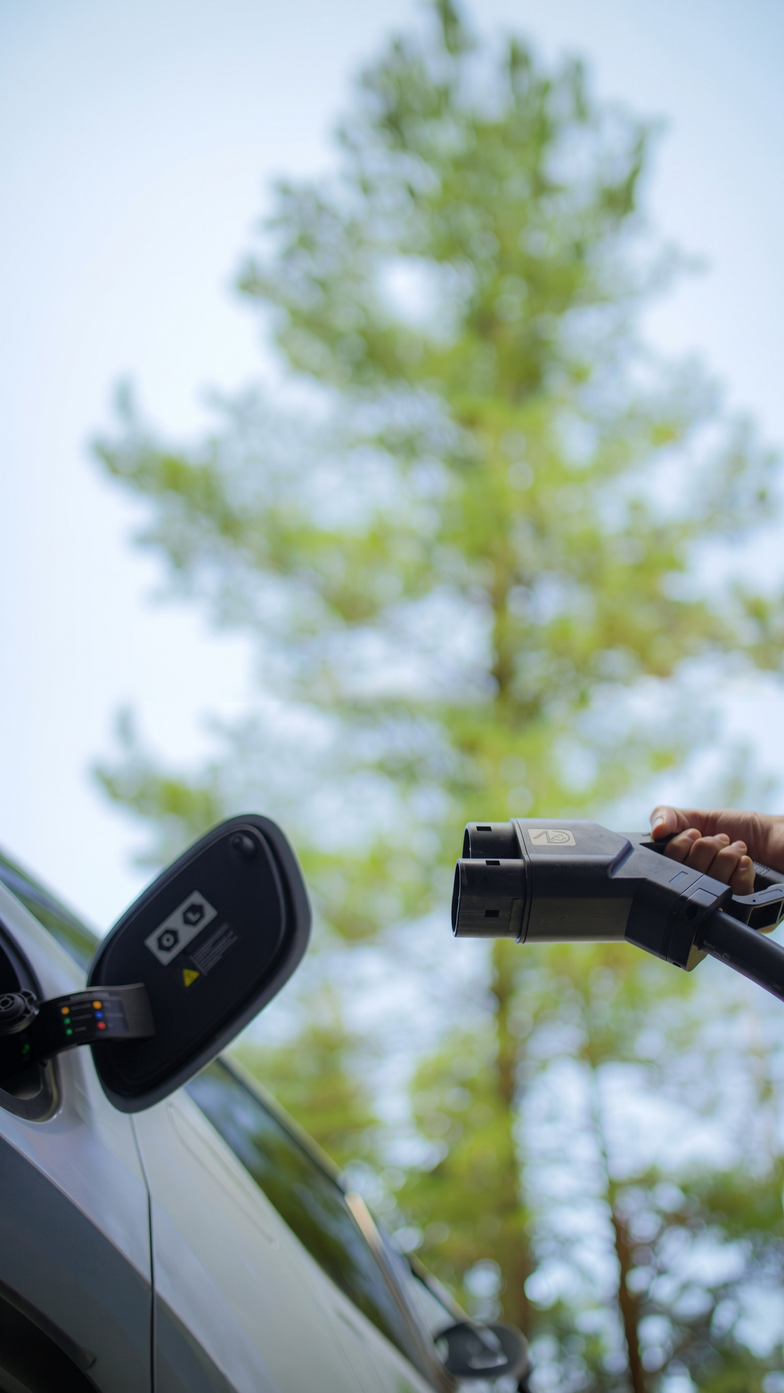
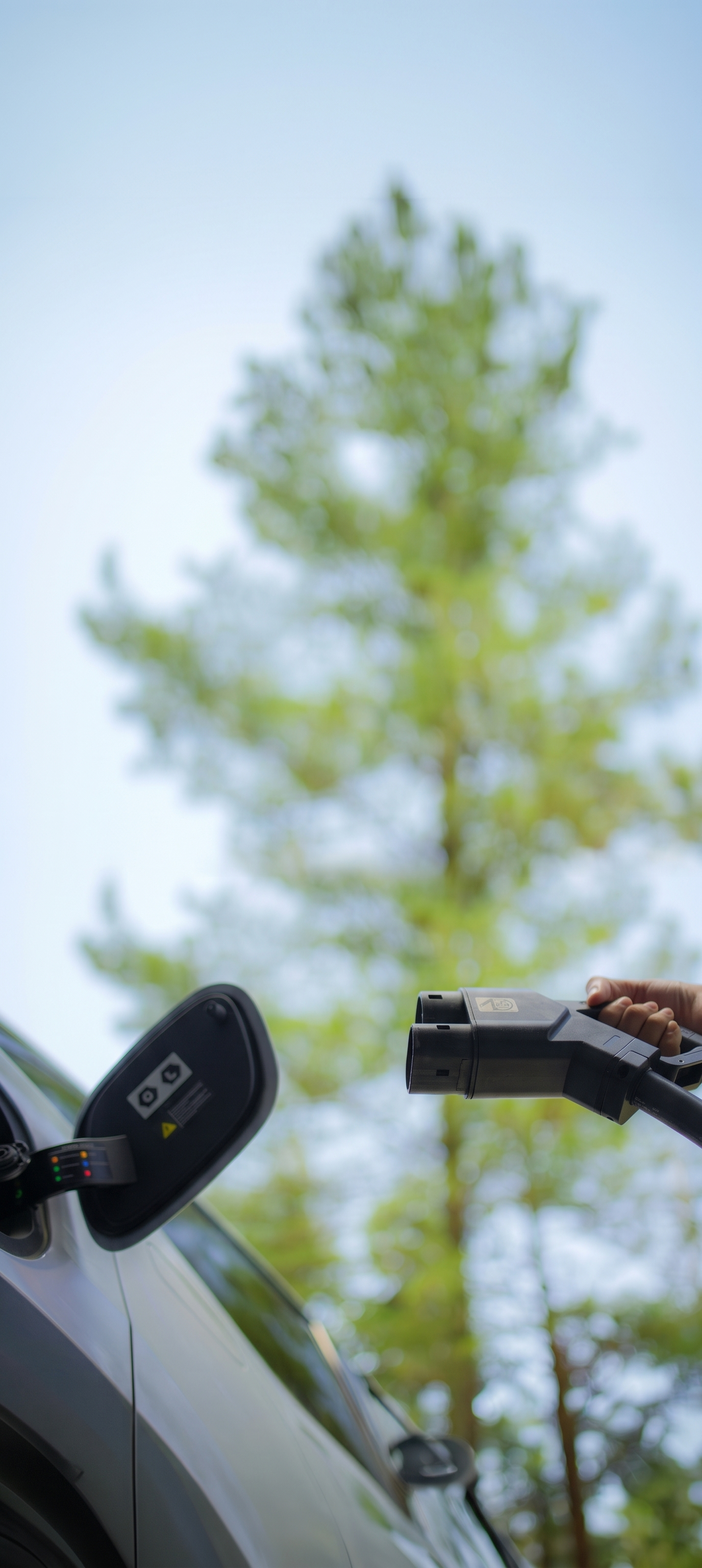
Onboarding change

diff --git a/lib/features/onboarding/presentation/view/onboarding_mobile_view.dart b/lib/features/onboarding/presentation/view/onboarding_mobile_view.dart
@@ -178,15 +178,34 @@ class _OnboardingSlide extends StatelessWidget {
       fit: StackFit.expand,
       children: [
         // Full-bleed background photo. The source art is authored at a 9:16
-        // aspect ratio (1536 x 2731). BoxFit.cover fills the screen without
-        // distortion, cropping the overflow rather than stretching the image.
-        AppPngImageView(
-          appImagePath: item.imagePath,
-          width: double.infinity,
-          height: double.infinity,
-          fit: BoxFit.cover,
-          imageAlignment: Alignment.center,
+        // aspect ratio (1536 x 2731). Phone screens are taller than 9:16, so
+        // BoxFit.cover fills the whole screen (no black gaps) without
+        // distortion; top-alignment keeps the tree and connectors in view and
+        // trims only a little from the sides/base.
+        Positioned.fill(
+          child: AppPngImageView(
+            appImagePath: item.imagePath,
+            width: double.infinity,
+            height: double.infinity,
+            fit: BoxFit.fitWidth,
+            imageAlignment: Alignment.topCenter,
+          ),
         ),
+
+        // Scrim to keep the headline legible and to blend the base of the
+        // photo into the black background.
+        // const DecoratedBox(
+        //   decoration: BoxDecoration(
+        //     gradient: LinearGradient(
+        //       begin: Alignment.center,
+        //       end: Alignment.bottomCenter,
+        //       colors: [
+        //         AppColors.transparentColor,
+        //         AppColors.blackColor,
+        //       ],
+        //     ),
+        //   ),
+        // ),
 
         // Headline + description, sitting above the bottom controls.
         Align(
@@ -194,7 +213,7 @@ class _OnboardingSlide extends StatelessWidget {
           child: SafeArea(
             top: false,
             child: Padding(
-              padding: EdgeInsets.fromLTRB(24.w, 0, 24.w, 120.h),
+              padding: EdgeInsets.fromLTRB(24.w, 0, 24.w, 110.h),
               child: Opacity(
                 opacity: contentOpacity,
                 child: Transform.translate(
